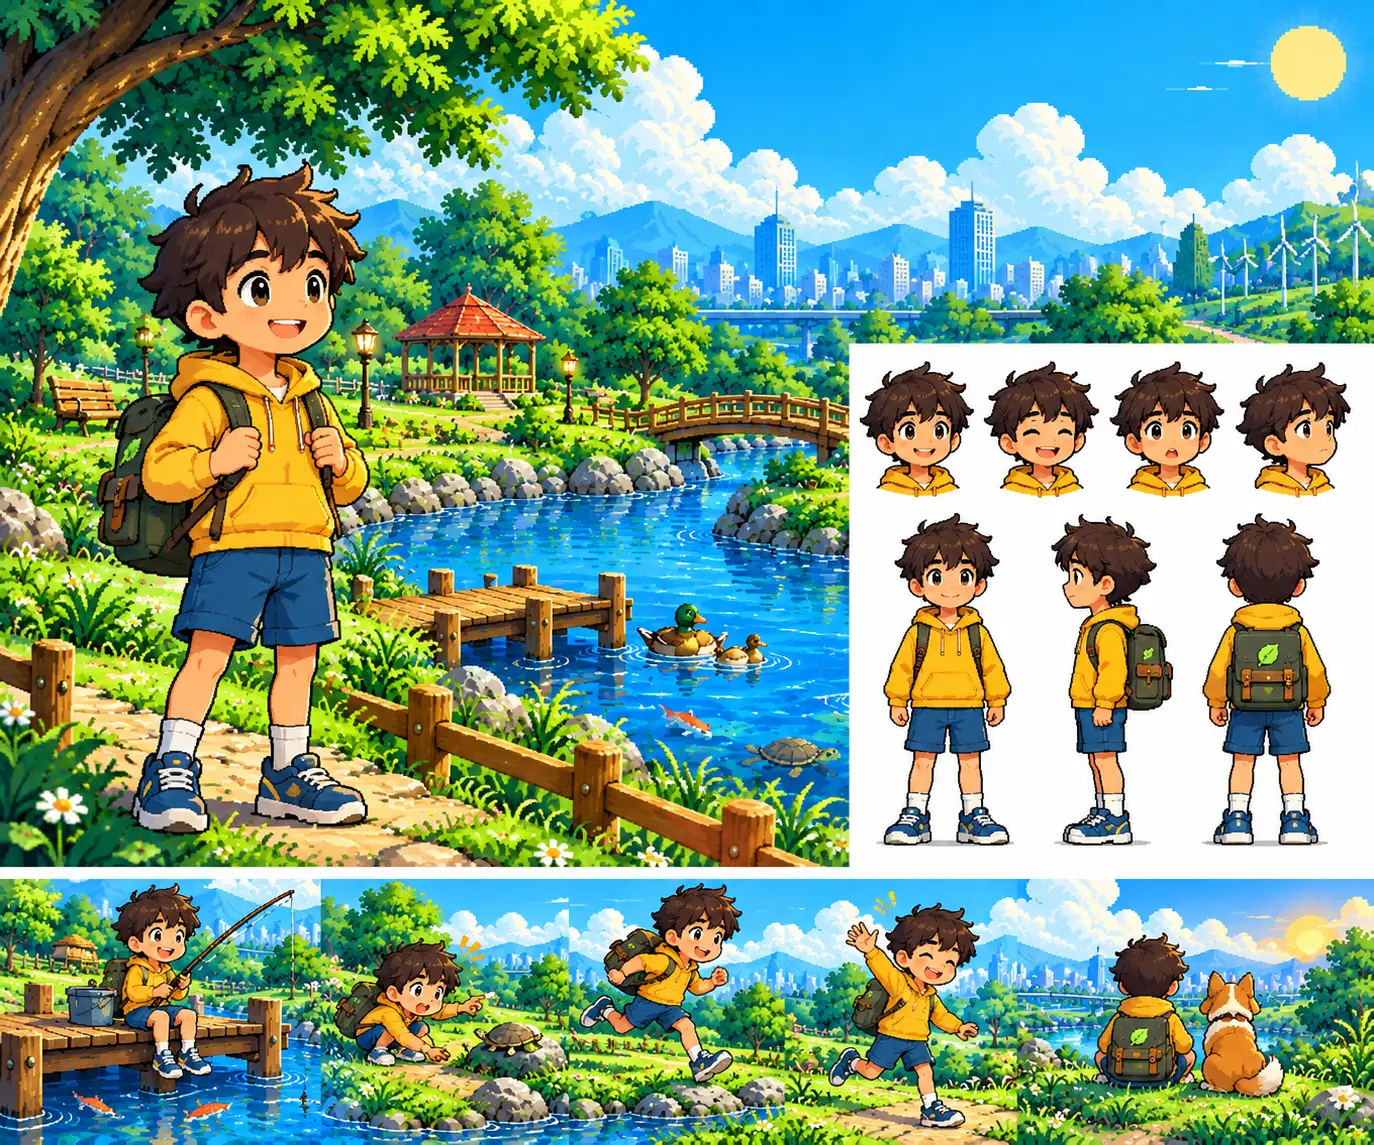
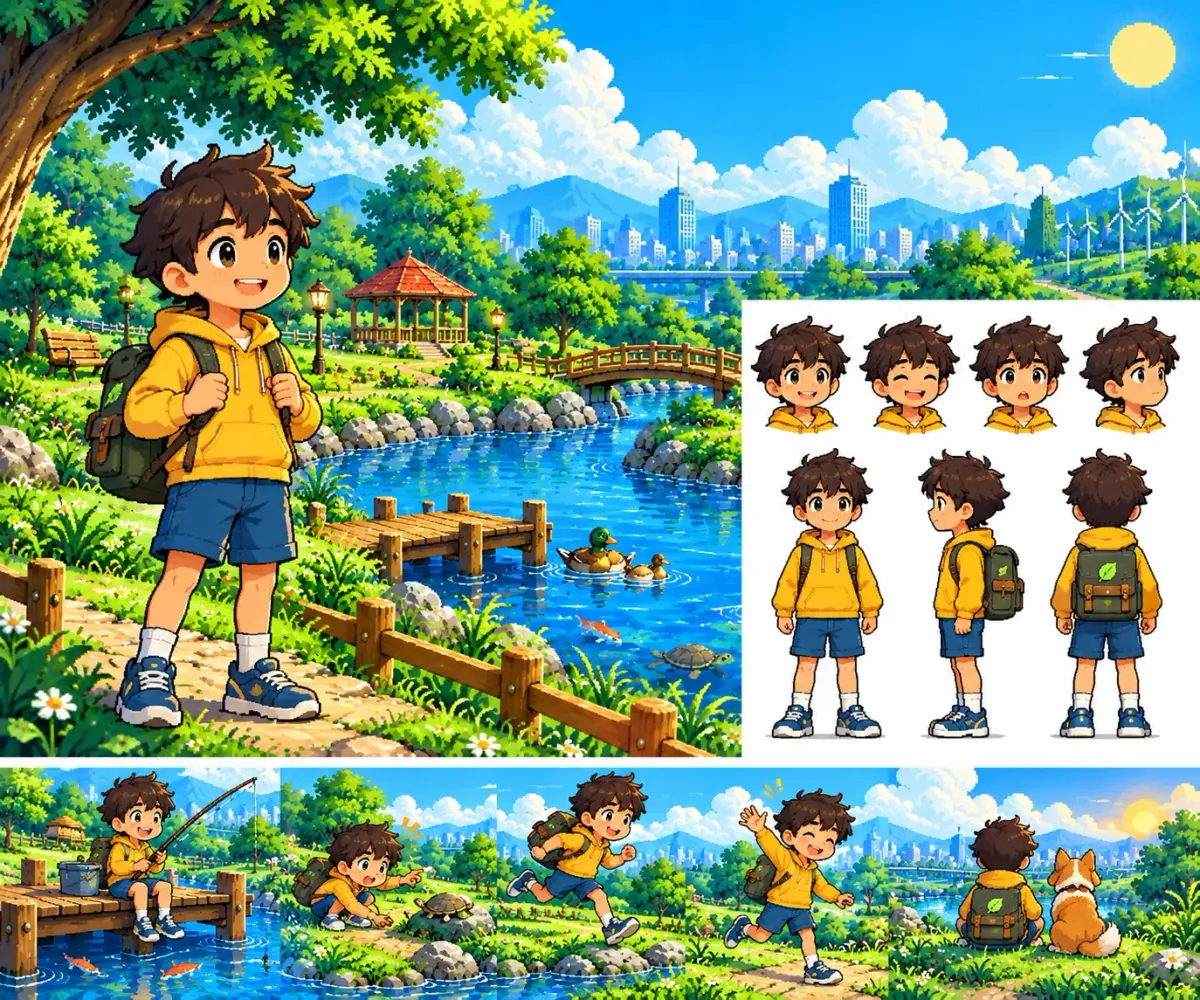
perf: cut Amplify payload and cache costs
- Remove unused cannon-es dependency
- Recompress hero images (dist 2.19MB -> 1.98MB)
- Add immutable cache headers for hashed /assets/*
- Split three.js and react into separate Rollup chunks
  (landing no longer ships Three; game updates spare cached Three)
- Pause 3D render loops when tab is hidden
- Lighter WebGL settings for gallery previews on coarse pointers

diff --git a/src/components/items/MapItemPreview.tsx b/src/components/items/MapItemPreview.tsx
@@ -3,6 +3,7 @@ import * as THREE from 'three';
 import { MapItemModelType } from '../world/items/types';
 import { createItemMesh, disposeItemMesh } from '../world/items/createItemMesh';
 import { RotateCw, Sparkles, Eye } from 'lucide-react';
+import { useCoarsePointer } from '../../hooks/useMobileInput';
 
 interface MapItemPreviewProps {
   modelType: MapItemModelType;
@@ -21,6 +22,7 @@ export const MapItemPreview: React.FC<MapItemPreviewProps> = ({
 }) => {
   const mountRef = useRef<HTMLDivElement>(null);
   const [isRotating, setIsRotating] = useState(autoRotate);
+  const isCoarsePointer = useCoarsePointer();
   // Mirrored into a ref so toggling rotation doesn't tear down + rebuild the
   // whole WebGL scene (the effect below must not depend on isRotating).
   const isRotatingRef = useRef(isRotating);
@@ -42,12 +44,12 @@ export const MapItemPreview: React.FC<MapItemPreviewProps> = ({
     camera.position.set(0, 1.0, 2.2);
     camera.lookAt(0, 0.28, 0);
 
-    // 2. Renderer
-    const renderer = new THREE.WebGLRenderer({ antialias: true, alpha: true });
+    // 2. Renderer — lighter on phones/tablets (no AA, cap 1.5x, cheap shadows)
+    const renderer = new THREE.WebGLRenderer({ antialias: !isCoarsePointer, alpha: true });
     renderer.setSize(width, h);
-    renderer.setPixelRatio(Math.min(window.devicePixelRatio, 2));
+    renderer.setPixelRatio(Math.min(window.devicePixelRatio, isCoarsePointer ? 1.5 : 2));
     renderer.shadowMap.enabled = true;
-    renderer.shadowMap.type = THREE.PCFSoftShadowMap;
+    renderer.shadowMap.type = isCoarsePointer ? THREE.BasicShadowMap : THREE.PCFSoftShadowMap;
     container.innerHTML = '';
     container.appendChild(renderer.domElement);
 
@@ -139,6 +141,7 @@ export const MapItemPreview: React.FC<MapItemPreviewProps> = ({
 
     const animate = () => {
       animId = requestAnimationFrame(animate);
+      if (document.hidden) return;
       const delta = clock.getDelta();
 
       if (meshGroupRef.current && isRotatingRef.current && !isDragging) {
@@ -168,7 +171,7 @@ export const MapItemPreview: React.FC<MapItemPreviewProps> = ({
       disposeItemMesh(scene);
       renderer.dispose();
     };
-  }, [modelType, height]);
+  }, [modelType, height, isCoarsePointer]);
 
   return (
     <div className={`relative bg-slate-900/80 rounded-2xl border border-slate-700/60 overflow-hidden ${className}`}>

diff --git a/vite.config.ts b/vite.config.ts
@@ -16,9 +16,17 @@ export default defineConfig({
         // The `build.manualChunks` shorthand is ignored by Vite 6 — declare
         // the splits under rollupOptions.output so three.js stays out of the
         // landing bundle and React is cached across lazy routes.
+        // Normalize separators so the matcher works on Windows and POSIX.
         manualChunks(id: string) {
-          if (id.includes('node_modules/three')) return 'three';
-          if (id.includes('node_modules/react')) return 'react';
+          const normalized = id.split('\\').join('/');
+          if (normalized.includes('node_modules/three')) return 'three';
+          if (
+            normalized.includes('node_modules/react-dom') ||
+            normalized.includes('node_modules/react/') ||
+            normalized.includes('node_modules/scheduler')
+          ) {
+            return 'react';
+          }
         },
       },
     },

diff --git a/src/components/LandingPage.tsx b/src/components/LandingPage.tsx
@@ -1364,8 +1364,8 @@ export const LandingPage: React.FC<LandingPageProps> = ({ onStartGame, onOpenRep
                 <img
                   src="/hero-zoom.webp"
                   alt="Kai the Eco Hero: complete concept sheet with park scene, expressions, 360 turnaround, and daily adventures"
-                  width={1374}
-                  height={1145}
+                  width={1200}
+                  height={1000}
                   loading="lazy"
                   decoding="async"
                   className="w-full h-auto object-contain max-h-[65vh]"

diff --git a/src/components/world/WorldCanvas.tsx b/src/components/world/WorldCanvas.tsx
@@ -268,6 +268,11 @@ export const WorldCanvas: React.FC<WorldCanvasProps> = ({
 
     const renderLoop = () => {
       animationFrameId = requestAnimationFrame(renderLoop);
+      // Skip work while the tab is in the background (saves battery/CPU).
+      if (document.hidden) {
+        clock.getDelta();
+        return;
+      }
       const delta = Math.min(clock.getDelta(), 0.1);
       const elapsedTime = clock.getElapsedTime();
 
